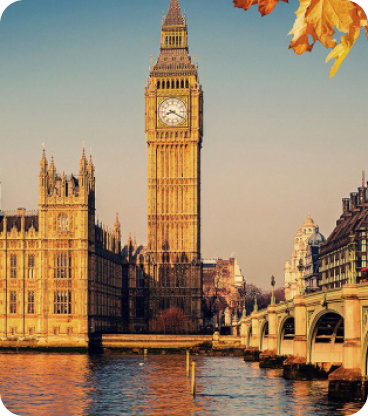
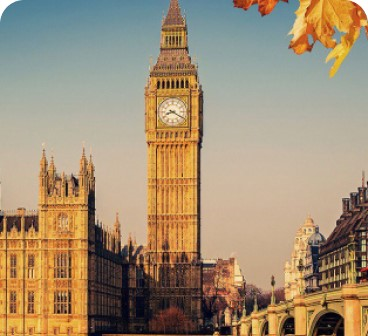
task updated

diff --git a/css/index.css b/css/index.css
@@ -143,7 +143,7 @@ body {
   text-transform: uppercase;
   font-size: 14px;
   letter-spacing: 1px;
-  font-weight: 800;
+  font-weight: 600;
   color: rgb(87, 79, 111);
 }
 #categories .subtitle {
@@ -174,7 +174,7 @@ body {
   align-items: center;
 }
 #categories .item:hover {
-  box-shadow: 0 30px 45px 0px rgba(250, 221, 221, 0.95);
+  box-shadow: 0 20px 20px 0px rgba(250, 221, 221, 0.95);
 }
 
 #categories .item .item-img {
@@ -189,7 +189,7 @@ body {
 #categories .item .item-heading {
   font-size: 15px;
   color: rgb(23, 0, 60);
-  font-weight: bolder;
+  font-weight: 600;
 }
 
 #categories .item .item-description {
@@ -243,11 +243,10 @@ body {
   flex-direction: column;
   align-items: center;
   box-shadow: 0 30px 50px 0px rgba(255, 235, 235, 0.906);
-  /* box-shadow: 5px 8px 28px 8px rgb(255, 235, 235); */
 }
 #destination .dest-college .image {
-  height: 70%;
-  width: 108%;
+  height: 75%;
+  width: 100%;
 }
 #destination .dest-college .image img {
   height: 100%;
@@ -474,6 +473,7 @@ body {
   justify-content: center;
   flex-direction: column;
   gap: 30px;
+  box-shadow: 24px 50px 0px 0 #fff;
 }
 .icon-wrap {
   position: relative;

diff --git a/index.html b/index.html
@@ -44,8 +44,8 @@
         <div class="subtitle">Travel, enjoy and live a new and full life</div>
         <div class="description">
           Built Wicket longer admire do barton vanity itself do in it. Preferred
-          to sportsmen it engrossed listening. Park gate <br/> sell they west hard for
-          the.
+          to sportsmen it engrossed listening. Park gate <br />
+          sell they west hard for the.
         </div>
         <button class="find-more">Find out more</button>
       </div>
@@ -263,7 +263,7 @@
             <div>
               <i class="fa-regular fa-envelope"></i>
             </div>
-            <input type="text" placeholder=" Your email" />
+            <input type="search" placeholder="Your email" />
           </div>
           <button>Subscribe</button>
         </div>
